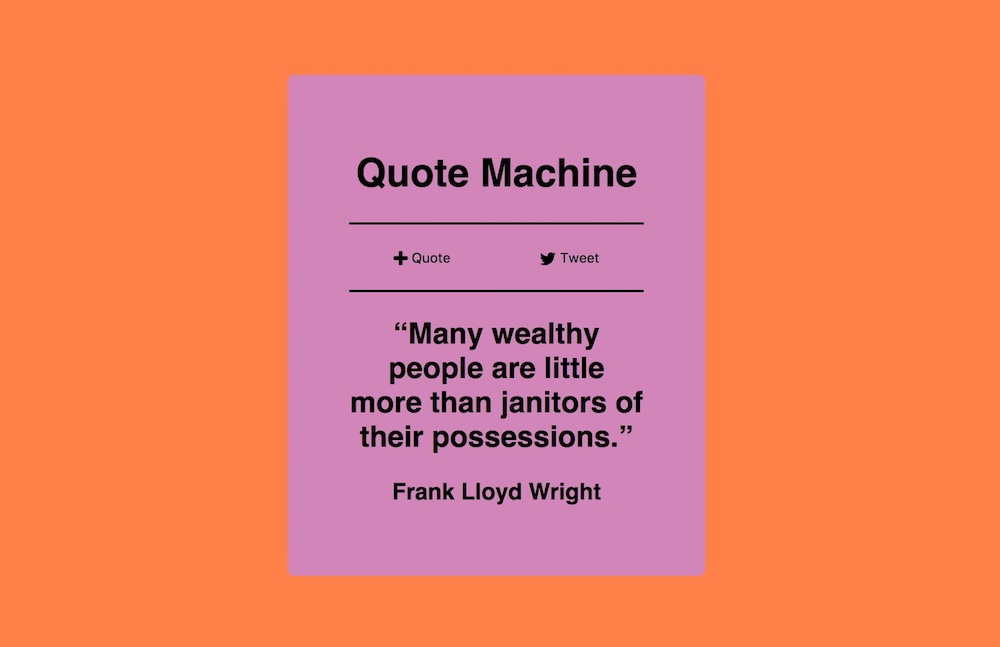
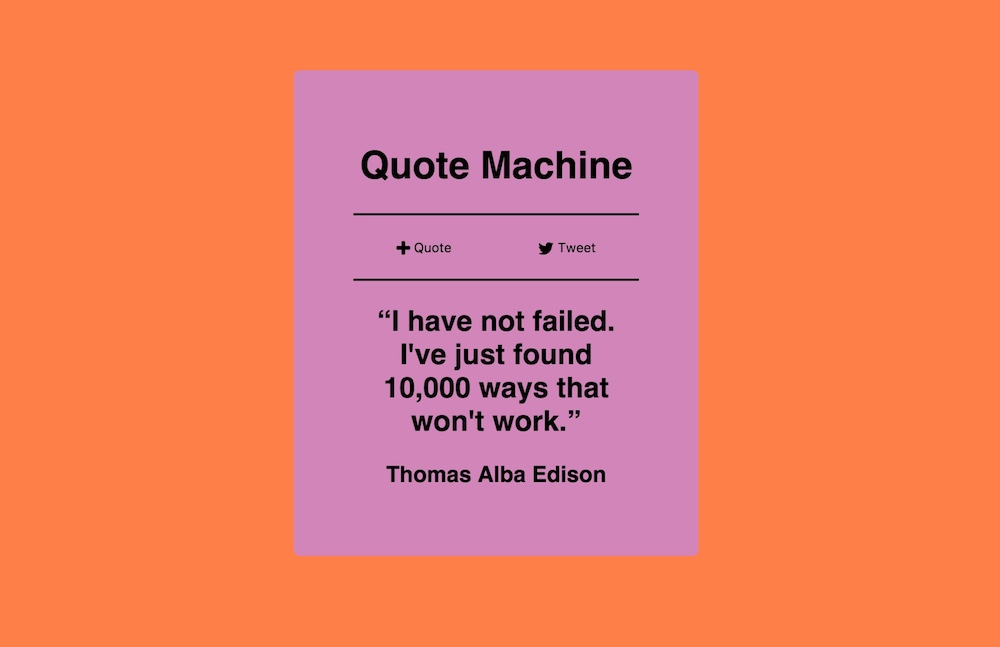
Extended Portfolio Section / Style Fix on Hover Effects
Added additional portfolio images changed quote machine image. Tweaked
transitions for the hover affects as showing edge at smaller screen
sizes. Added margin to extend screen size of bio section.

Changed region(s): [[0.341, 0.2164, 0.651, 0.7728], [0.279, 0.0927, 0.713, 0.8964]]

diff --git a/index.html b/index.html
@@ -82,7 +82,7 @@
       <div class="col span-1-of-3 skills-box">
         <div class="skill-titles">
           <i class="fa fa-server" aria-hidden="true"></i>
-          <h3>Deploy</h3>
+          <h3>Deployment</h3>
         </div>
         <p>Lorem ipsum dolor sit amet, consectetur adipisicing elit. Voluptates, quas, sapiente quam, eius consequuntur fuga a odio reiciendis explicabo, quibusdam voluptatem! Non omnis officiis quo doloribus quia, veritatis distinctio itaque.consectetur adipisicing elit. Voluptates, quas, sapiente quam, eius consequuntur fuga a odio reiciendis explicabo, quibusdam voluptatem!</p>
       </div>
@@ -121,18 +121,32 @@
         </div></a>
       </div>
     </div>
+    <div class="row">
+      <div class="col span-1-of-2">
+        <a href="https://codepen.io/chazmcgrill/full/rwGbVR/"><div class="portfolio-img-box">
+          <img src="img/portfolio-pomodoro.jpg" alt="Portfolio Pomodoro Timer">
+          <h3>Pomodoro Timer</h3>
+        </div></a>
+      </div>
+      <div class="col span-1-of-2">
+        <a href="https://codepen.io/chazmcgrill/full/oWpVOG/"><div class="portfolio-img-box">
+          <img src="img/portfolio-twitch.jpg" alt="Portfolio Twitch TV Application">
+          <h3>Twitch TV App</h3>
+        </div></a>
+      </div>
+    </div>
   </section>
 
   <section class="section-contact" id="contact">
     <div class="row">
       <h2>Contact</h2>
       <div class="form-container">
-        <p><strong>Say hello...</strong> please use this form to get in touch with any questions.</p>
+        <p><strong>I'm currently available for your projects.</strong> please use this form to get in touch with any ideas.</p>
         <form method="post" action="">
           <input type="text" placeholder="name" id="name" required>
           <input type="email" placeholder="email" id="email" required>
-          <textarea name="comments" placeholder="Your message" data-new-placeholder="Your message" rows="5"></textarea>
-          <input type="submit" value="Send the message.">
+          <textarea name="comments" placeholder="your message" data-new-placeholder="your message" rows="5"></textarea>
+          <input type="submit" value="send the message.">
         </form>
       </div>
     </div>
@@ -171,5 +185,6 @@
 
   <script src="scripts/jquery-3.2.1.min.js"></script>
   <script src="scripts/app.js"></script>
+
 </body>
 </html>

diff --git a/css/style.css b/css/style.css
@@ -144,23 +144,24 @@ header {
   display: block;
   width: 150px;
   border-radius: 50%;
-  margin: 0 auto 20px auto;
-  transition: border 0.2s;
+  margin: 0 auto 30px auto;
+  transition: opacity 0.2s;
 }
 
 .section-bio img:hover {
-  border: 4px solid #2980b9;
+  opacity: 0.8;
 }
 
 .bio-icons {
-  width: 150px;
-  margin: 40px auto;
+  width: 180px;
+  margin: 45px auto 70px auto;
   display: flex;
   justify-content: space-between;
 }
 
 .bio-icons i {
   color: #bdbdbd;
+  font-size: 110%;
 }
 
 .bio-icons i:hover {
@@ -211,13 +212,13 @@ header {
   width: 100%;
   height: auto;
   padding: 0;
-  transform: scale(1.2);
+  transform: scale(1.1);
   opacity: 1;
   transition: transform 0.5s, opacity 0.5s;
 }
 
 .portfolio-img-box img:hover {
-  transform: scale(1);
+  transform: scale(1.3);
   opacity: 0.2;
 }
 
